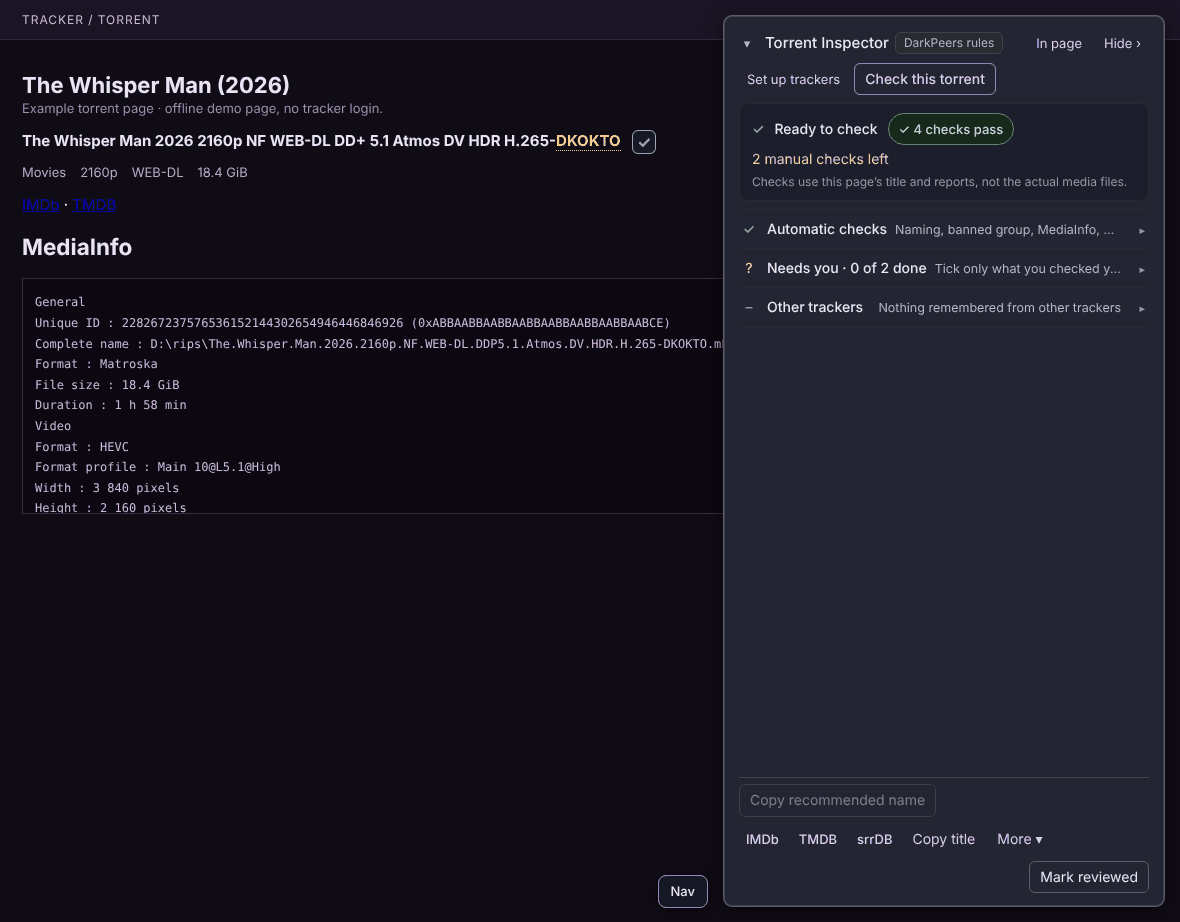
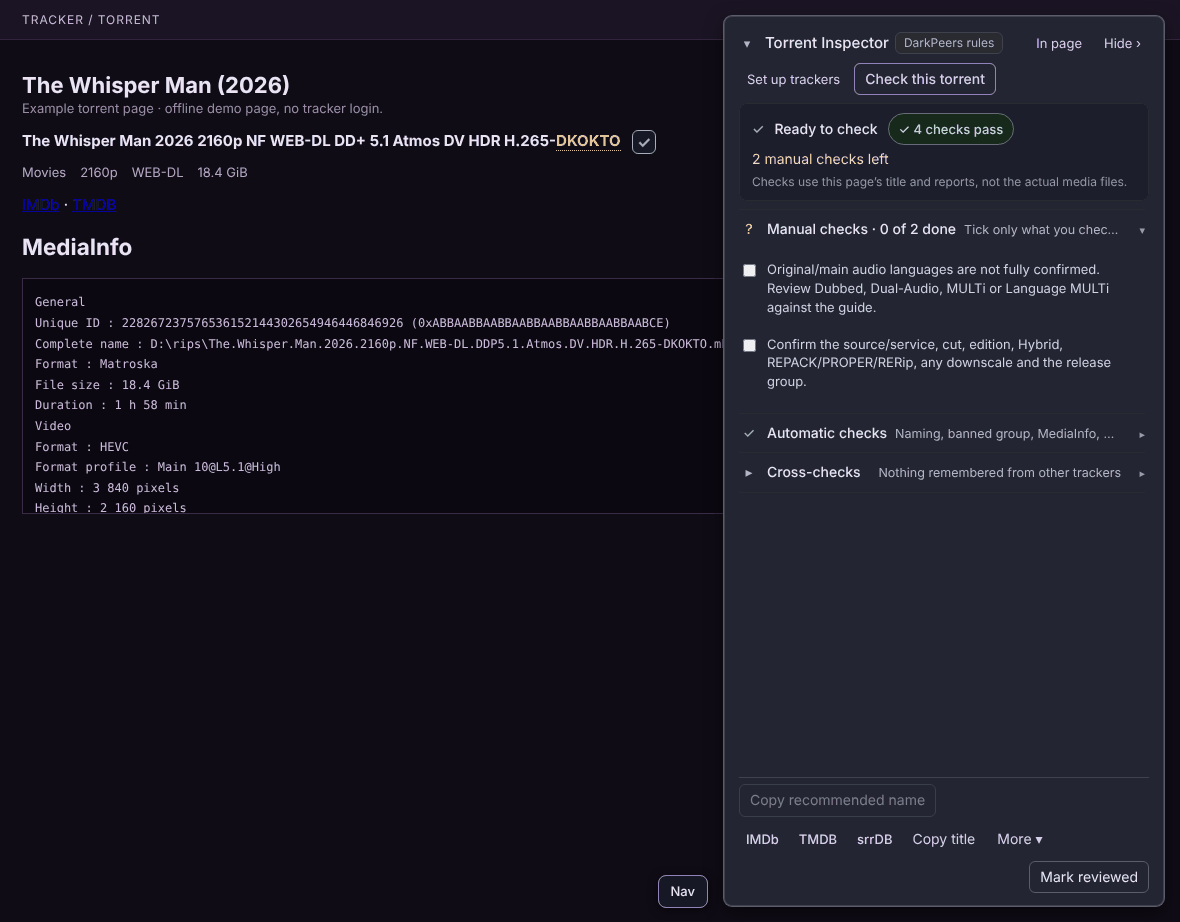
Update website for Torrent Inspector 2.3.0

Changed region(s): [[0.6102, 0.243, 0.9458, 0.4252], [0.6407, 0.4555, 0.9458, 0.5163]]

diff --git a/index.html b/index.html
@@ -4,9 +4,9 @@
 <meta charset="utf-8">
 <meta name="viewport" content="width=device-width, initial-scale=1">
 <meta name="referrer" content="no-referrer">
-<title>Torrent Inspector 2.2.0 — check, compare and copy</title>
+<title>Torrent Inspector 2.1.1 — check, compare and copy</title>
 <link rel="icon" type="image/svg+xml" href="images/logo.svg">
-<meta name="description" content="A compact review drawer with Automatic checks, Needs you and Other trackers. Saved setup, report copying and review replies stay together, with no usage telemetry.">
+<meta name="description" content="Visible page checks, one Check this torrent button and inline tracker results. Naming, reply and review tools share one interface, with saved setup and no usage telemetry.">
 <style>
   :root{
     --bg:#0f0b14; --panel:#160f1e; --panel-2:#1b1226; --line:#3b2a4a; --line-2:#553d6b;
@@ -123,9 +123,9 @@
 <nav class="site-nav" aria-label="Site navigation"><a href="/">Home</a><a href="/rules.html">Rules builder</a></nav>
 <p class="eyebrow">A simpler torrent review workflow</p>
 <h1>Check. Compare. Copy<span class="dot">.</span></h1>
-<p class="lede">Torrent Inspector 2.2.0 keeps the checks, tracker setup and matching releases
-in one drawer beside the torrent page. Read the page checks, then connect trackers when you want searches.</p>
-<ul class="pills"><li class="pill"><b>2.2.0</b></li><li class="pill">One interface</li>
+<p class="lede">Torrent Inspector 2.3.0 keeps the checks, tracker setup and matching releases
+in one box on the torrent page. Connect once, then press <b>Check this torrent</b>.</p>
+<ul class="pills"><li class="pill"><b>2.3.0</b></li><li class="pill">One interface</li>
 <li class="pill">46 UNIT3D trackers · PeerGarden support · 65 searchable trackers</li>
 <li class="pill">No posting · No usage telemetry</li></ul>
 <div class="cta"><a class="btn primary" href="#install">How to get it</a><a class="btn" href="#review">See the workflow</a><a class="btn" href="rules.html">Rules builder</a></div>
@@ -134,36 +134,37 @@ in one drawer beside the torrent page. Read the page checks, then connect tracke
 <section id="start"><div class="wrap"><h2>Three steps for everyday use</h2>
 <p class="sub">Setup is saved. You do not need to open another settings panel for each torrent.</p>
 <div class="grid">
-<div class="card lead"><h3>1 · Open a torrent</h3><p>Read the verdict line. Open <b>Automatic checks</b> for the page evidence and <b>Needs you</b> for manual checks. No API key is needed for the loaded-page checks.</p></div>
-<div class="card lead"><h3>2 · Connect once</h3><p><b>Set up trackers</b> shows Prowlarr import and a manual tracker-key form together. Use either path and save/test a connection. <b>Check this torrent</b> searches connected trackers; your setup is remembered.</p></div>
+<div class="card lead"><h3>1 · Open a torrent</h3><p>Page checks are visible immediately. Press <b>Check this torrent</b> to start an API search and show results in the same panel.</p></div>
+<div class="card lead"><h3>2 · Connect once</h3><p>On first use, <b>Set up trackers</b> offers <b>Connect Prowlarr</b> or <b>Add a tracker manually</b>. Save/test a connection, then press <b>Check this torrent</b>. Your setup is remembered.</p></div>
 <div class="card lead"><h3>3 · Copy and review</h3><p>Use the copy buttons on a result for its report or original BBCode. <b>Details</b> opens its comparison and report. Use <b>Retry</b> beside a failed tracker. Finish the manual checks, then use <b>Mark reviewed</b> to save your progress.</p></div>
 </div></div></section>
 <section id="review"><div class="wrap"><h2>One place to check and review</h2>
-<p class="sub">One verdict line, three folded groups and the same evidence when you expand them.</p>
-<p><b>Check this torrent</b> in the header starts API search and opens <b>Other trackers</b>. Results keep setup,
+<p class="sub">A full-width checks table, one main action and the tools you need below it.</p>
+<p><b>Check this torrent</b> starts API search in one click. Results keep setup,
 comparisons and copying together. <b>Search options</b> holds filters, <b>Search more broadly</b> and <b>Search all trackers</b>.
-<b>More</b> in the bottom action row holds website search tabs separately from the API action.</p>
+<b>More</b> on the page holds website search tabs separately from the API action.</p>
 <p><b>Set up trackers</b> in the header opens saved tracker controls when needed.
 Page checks and returned results stay in the same panel.
-Open <b>Automatic checks</b> for the page findings, <b>Needs you</b> for confirmations and <b>Other trackers</b> for search results. As scans arrive, your reading position, open details and focus are kept.
+Check and review buttons stay accessible. Wider screens show results in columns;
+phones stack them. As scans arrive, your reading position, open details and focus are kept.
 Each result shows its title and any reported filename. Equivalent identities share
 a card, including eligible <b>Candidates to review</b>. Grouped candidates still need review against this torrent; they do not become matches. Each tracker keeps its own date, original report and BBCode, copy buttons and <b>Open torrent</b>. Similar names alone or conflicting identity evidence do not group results; <b>Other editions</b> stay separate. <b>Details</b> opens its comparison and report; copying works without opening it.</p>
-<p><b>Copy recommended name</b> in the bottom action row copies a name reassessed against the active guide.
-Expand a group and check row for evidence or manual confirmations. A <b>Suggested title</b> card above the groups explains a correction when one is available; its <b>Review reply</b> combines selected findings into BBCode.
+<p><b>Copy recommended name</b> beside <b>Check this torrent</b> copies a name reassessed against the active guide.
+Expand any check row for evidence or manual confirmations. <b>Suggested title</b> opens below the checks when a correction is available.
 <b>Page checks passed</b> means the checked items and manual checks are clear; <b>Review needed</b> means something still needs review.
 Listing badges say <b>Title</b> to show that only the displayed name was checked. Failed tracker searches show a failure count and a retry action.
 The <b>Personal Release</b> check row shows <b>Yes</b>, <b>No</b> or <b>Unknown</b> from an explicit tracker badge or API flag, separately from <b>Internal</b>. Missing evidence stays <b>Unknown</b>; it does not identify who made the release or add requests.
 Open a row for its full evidence or title preview. <b>Suggested title</b> explains supported formatting fixes and gives you a copy
-button. <b>Review reply</b> lets you choose findings, read a BBCode preview and copy
+button. <b>Reply to uploader</b> lets you choose findings, read a BBCode preview and copy
 one message. Missing release information is never guessed. Nothing is renamed or posted automatically.</p>
 <p>InfinityHD naming follows its movie, TV and music guide, including <b>DV HDR</b> and bracketed music with an optional group tag. Metadata and official retail box-set status still need manual confirmation. Music requirements §10 add FLAC 16/24-bit report/file checks; missing evidence stays for review. Completeness, tags, provenance, untouched WEB files, analog lineage, unmodified logs and bundled-video origin remain manual. Secure CD ripping, logs, cue sheets and a 100% score are recommendations. Original Scene/P2P names are kept.</p>
-<p><b>Automatic checks</b> contains screenshot count/size details and season-pack checks, with optional expected episode numbers. <b>Other trackers</b> contains the local .torrent helper.
+<p>Optional checks stay collapsed: enter expected episode numbers or choose a local
+.torrent file. The <b>Screenshots</b> row checks image count and loaded sizes; expand it for each image's details.
 <b>Other editions</b> starts collapsed. Details and copy actions stay available in the same panel.</p>
-<p><b>Hide ›</b> slides the drawer away to an edge tab; <b>Alt+I</b> brings it back. The <b>▾</b> beside the title folds it to the verdict line. <b>In page</b> places it below the release name, and <b>As drawer</b> returns it. Below 600px it stays in the page with larger controls. The colours follow the Nocturne blue-grey palette.</p>
 <div class="shots workflow-shots">
-<figure><img src="screenshots/easy-check.png?v=2.2.0" alt="Torrent Inspector as a drawer at the side of the page, with its verdict line and the Automatic checks and Needs you groups open." loading="lazy" width="1100" height="900"><figcaption>The panel as a drawer: a verdict line, then folded groups.</figcaption></figure>
-<figure><img src="screenshots/easy-mobile.png?v=2.2.0" alt="Torrent Inspector on a narrow screen, in the page, with a sticky header and large targets." loading="lazy" width="306" height="1033"><figcaption>On a phone the panel stays in the page.</figcaption></figure>
-<figure><img src="screenshots/16-review-panel.png?v=2.2.0" alt="Review dialog with its sections stacked as expanders: Findings open, then MediaInfo, Find releases, Source check, Season check and notes." loading="lazy" width="980" height="846"><figcaption>Review keeps every section, stacked as expanders.</figcaption></figure>
+<figure><img src="screenshots/easy-check.png?v=2.3.0" alt="Torrent Inspector as a drawer at the side of the page, with its verdict line and the Manual checks and Automatic checks groups open." loading="lazy" width="1100" height="900"><figcaption>The panel as a drawer: a verdict line, then folded groups.</figcaption></figure>
+<figure><img src="screenshots/easy-mobile.png?v=2.3.0" alt="Torrent Inspector on a narrow screen, in the page, with a sticky header and large targets." loading="lazy" width="306" height="1033"><figcaption>On a phone the panel stays in the page.</figcaption></figure>
+<figure><img src="screenshots/16-review-panel.png?v=2.3.0" alt="Review dialog with its sections stacked as expanders: Findings open, then MediaInfo, Find releases, Source check, Season check and notes." loading="lazy" width="980" height="846"><figcaption>Review keeps every section, stacked as expanders.</figcaption></figure>
 </div>
 <p>On requests, <b>Search trackers</b> opens a compact box and starts the saved API search in one click, including the current tracker. Request lists use matching <b>Search trackers</b> and <b>Web links</b> buttons. One compact request-page toolbar holds search and header <b>Set up trackers</b>, with folded <b>Website searches</b>. Request results use at most two columns on wide screens and one on phones. <b>Matches request details</b> means an ID and listed requirements agree; title-only or incomplete results stay under <b>Check these releases</b>, and conflicts under <b>Other editions</b>. Open a result or copy its returned report and original BBCode directly. These are request-detail comparisons, not MediaInfo, hash or same-file matches. Searching never fills, claims or approves a request.</p>
 <p>For a queue, choose <b>Review loaded titles</b> on a listing, then open a torrent.
@@ -190,16 +191,16 @@ the tracker’s title is not changed. The review tools keep the original <b>Seas
 </div></section>
 <section id="connect"><div class="wrap"><h2>Use the trackers you already have</h2>
 <div class="grid"><div class="card"><h3>Prowlarr</h3><p>Enter the base server address (including its application prefix, without a settings-page path) and API key, then press <b>Connect</b> once. If your seedbox asks for a separate login, fill <b>Server login (optional)</b> first, using an HTTPS address. Supported direct keys are imported. Configured trackers such as TorrentLeech and FileList use search fallback automatically, without a second checklist.</p></div>
-<div class="card"><h3>Direct tracker keys</h3><p>In <b>Manual · One tracker key</b>, select the tracker, paste its API key and press <b>Save &amp; test</b>. PeerGarden supports direct searches, MediaInfo, original BBCode and available torrent hashes.</p></div>
+<div class="card"><h3>Direct tracker keys</h3><p>Choose <b>Add a tracker manually</b>, select the tracker and press <b>Save &amp; test</b>. PeerGarden supports direct searches, MediaInfo, original BBCode and available torrent hashes.</p></div>
 <div class="card"><h3>Your saved setup</h3><p><b>Test all connections</b> checks saved supported direct keys and Prowlarr discovery without changing selections. Updates retain settings and keys already saved in Tampermonkey; older page-only credentials need one-time re-entry. Blank key fields are intentional. Keys stay private and excluded from backups.</p></div></div>
 <p class="note" style="margin-top:18px">Use <b>Copy MediaInfo</b> or <b>Copy BDInfo</b> for the original report, and <b>Copy description</b> for its original BBCode. Fallback results may have no report or original description to copy. The script does not invent missing reports.</p>
 </div></section>
 <section id="shots"><div class="wrap"><h2>More detail when you need it</h2>
 <p class="sub">Expand a check or open the detailed review tools for reports, comparisons and private notes.</p>
 <div class="shots">
-<figure><img src="screenshots/17-detail-mediainfo.png?v=2.2.0" alt="Detailed MediaInfo view showing summary cards, codecs and track tables for the posted report." loading="lazy" width="980" height="846"><figcaption>Read the report with track details and naming evidence.</figcaption></figure>
-<figure><img src="screenshots/18-find-releases.png?v=2.2.0" alt="Find releases with an editable query, title modes and a grid of selected tracker searches." loading="lazy" width="980" height="1048"><figcaption>Find releases keeps the detailed search controls available.</figcaption></figure>
-<figure><img src="screenshots/19-season-check.png?v=2.2.0" alt="Season check comparing episode lists from remembered uploads and showing missing or different files." loading="lazy" width="980" height="990"><figcaption>Compare season packs episode by episode.</figcaption></figure>
+<figure><img src="screenshots/17-detail-mediainfo.png?v=2.3.0" alt="Detailed MediaInfo view showing summary cards, codecs and track tables for the posted report." loading="lazy" width="980" height="846"><figcaption>Read the report with track details and naming evidence.</figcaption></figure>
+<figure><img src="screenshots/18-find-releases.png?v=2.3.0" alt="Find releases with an editable query, title modes and a grid of selected tracker searches." loading="lazy" width="980" height="1048"><figcaption>Find releases keeps the detailed search controls available.</figcaption></figure>
+<figure><img src="screenshots/19-season-check.png?v=2.3.0" alt="Season check comparing episode lists from remembered uploads and showing missing or different files." loading="lazy" width="980" height="990"><figcaption>Compare season packs episode by episode.</figcaption></figure>
 </div><p>Detailed tools also include private notes, naming templates, captured-release comparisons
 and rules profiles. The <a href="rules.html">Rules builder</a> helps you create a profile for your tracker.</p>
 </div></section>
@@ -208,7 +209,7 @@ and rules profiles. The <a href="rules.html">Rules builder</a> helps you create 
 Ask DKOKTO on your tracker for the installation address. This public website carries the
 screenshots and Rules builder; it does not offer the userscript for download.</p>
 <ol class="steps"><li>Install Tampermonkey, then open the supplied installation link.</li>
-<li>Choose <b>Install</b> for first use or <b>Update</b> for your existing <b>Torrent Inspector</b> entry, then reload your tracker tabs.</li>
+<li>Update the existing <b>Torrent Inspector</b> entry and reload your tracker tabs.</li>
 </ol>
 <p>Settings and keys already saved in Tampermonkey are retained. Older page-only credentials need one-time re-entry.</p>
 </div></section>
@@ -216,10 +217,10 @@ screenshots and Rules builder; it does not offer the userscript for download.</p
 <dt>Does green mean the upload is approved?</dt><dd>No. It means the supported checks passed. The tool reads posted evidence, not the actual media, and never approves a torrent.</dd>
 <dt>Do I need to open every tracker?</dt><dd>Connected APIs can return evidence into the same box. Unsupported APIs and missing content may still need an explicit website visit.</dd>
 <dt>Where are my keys?</dt><dd>In Tampermonkey's private script storage. They are reused for later checks and excluded from backups. Optional server logins use the same private storage and go only to your saved Prowlarr server. Prowlarr cookies, passwords and RSS passkeys are not copied.</dd>
-<dt>Where are the detailed tools?</dt><dd>Review keeps Findings, MediaInfo, Find releases, Source check, Season check and notes as stacked expandable sections. The torrent-page drawer also offers In page placement.</dd>
+<dt>Where are the detailed tools?</dt><dd>The single panel keeps Findings, MediaInfo, Find releases, Source check, Season check and notes available. There is no mode switch.</dd>
 <dt>What does it send?</dt><dd>The API searches you request, using each destination's own key. Screenshot checks read loaded counts and dimensions. It sends no usage telemetry and never submits tracker changes. External lookup links open only when clicked.</dd>
 <dt>Does the local torrent check contact a tracker?</dt><dd>No. Choose a .torrent file up to 16 MiB and 10,000 files. Its metadata is read in this tab, never uploaded, announced or saved in settings. Hashes and byte counts cannot verify actual media files.</dd>
-<dt>What do screenshot checks compare?</dt><dd>The number of description images and their loaded sizes against the posted video. Unloaded sizes stay unknown. Open Automatic checks, then Screenshots for details. Original-image and viewer links open only when clicked.</dd>
+<dt>What do screenshot checks compare?</dt><dd>The number of description images and their loaded sizes against the posted video. Unloaded sizes stay unknown. Expand the Screenshots row for details. Original-image and viewer links open only when clicked.</dd>
 </dl></div></section>
-<footer><div class="wrap"><p><b>Torrent Inspector 2.2.0</b> · <a href="rules.html">Rules builder</a> · <a href="https://github.com/khamere/torrent_inspector" rel="noopener noreferrer">GitHub</a></p></div></footer>
+<footer><div class="wrap"><p><b>Torrent Inspector 2.3.0</b> · <a href="rules.html">Rules builder</a> · <a href="https://github.com/khamere/torrent_inspector" rel="noopener noreferrer">GitHub</a></p></div></footer>
 </body></html>

diff --git a/rules.html b/rules.html
@@ -100,7 +100,7 @@
 <header class="top">
   <div class="wrap">
     <nav class="site-nav" aria-label="Site navigation"><a href="/">Home</a><a href="/rules.html">Rules builder</a></nav>
-    <p class="eyebrow">Torrent Inspector 2.2.0</p>
+    <p class="eyebrow">Torrent Inspector 2.3.0</p>
     <h1>Tracker rules</h1>
     <p class="lede">
       Build a rules profile for a tracker, check one you already have, and run a release name
@@ -225,7 +225,7 @@
 <footer>
   <div class="wrap">
     <p><a href="index.html">← Torrent Inspector</a> · profile format documented in
-      <code>TRACKER-RULES.md</code> · built from the modules of 2.2.0</p>
+      <code>TRACKER-RULES.md</code> · built from the modules of 2.3.0</p>
   </div>
 </footer>
 
@@ -1423,13 +1423,17 @@ const DKOKTO_RULES = ((profiles) => {
 
     // What this site's rules can be checked for, from a title and (where present) the
     // MediaInfo report on the page.
-    function check(title='',{site=current(),profile='auto',file=null,officialTitle='',files,reports}={}) {
+    function check(title='',{site=current(),profile='auto',fullDisc=false,file=null,officialTitle='',files,reports}={}) {
         const issues=[],add=(severity,code,message)=>{if(!issues.some(i=>i.code===code))issues.push({severity,code,message});};
         // An added tracker is checked against the rules its profile carries.
         const added=profiles.get(site);
         if(added){
-            const checked=profiles.evaluate(added,title,profile);
+            // A page that says Full Disc is read against the profile's disc rules: a film or
+            // series category does not make a full disc an encode.
+            const category=fullDisc&&(profile==='movie'||profile==='tv')?'disc':profile;
+            const checked=profiles.evaluate(added,title,category);
             if(site==='ihd'&&profile==='music')checked.push(...infinityMusicEvidence({file,files,reports}));
+            if(site==='mns')return midnightModeration(checked,{title,profile:category,file,files});
             return checked;
         }
         if(site!=='zenith')return issues;
@@ -1478,6 +1482,16 @@ const DKOKTO_RULES = ((profiles) => {
         if(video||book||profile==='music')
             add('review','zenith-standing','Zenith rules this cannot check: whether it already exists there (rule 1), another tracker’s exclusivity (1.2), keeping the original group tag (1.4) and no archives (2.1).'+(video?' The three screenshots and the MediaInfo (3.2, 3.4) are checked on the torrent page.':''));
         return issues;
+    }
+    // MidnightScene's moderation guide (mns-moderation.js). Its group rule replaces the naming
+    // guide's softer group-tag question; the per-torrent confirmations need the torrent page.
+    function midnightModeration(checked,{title,profile,file,files}){
+        const moderation=typeof DKOKTO_MNS_MODERATION!=='undefined'?DKOKTO_MNS_MODERATION:require('./mns-moderation.js');
+        const found=moderation.evidence({title,profile,file,files})
+            .filter(issue=>file||files!==undefined||!/^mns-mod-confirm-/.test(issue.code))
+            .map(({severity,code,message})=>({severity,code,message}));
+        const grouped=found.some(issue=>issue.code==='mns-mod-group');
+        return [...checked.filter(issue=>!(grouped&&issue.code==='mns-group-tag')),...found];
     }
     // Section 10, supplied 16 Oct 2026. Positive evidence can establish a conflict;
     // missing fields, relative paths and one posted track cannot certify an album.
@@ -1608,8 +1622,9 @@ const DKOKTO_RULES = ((profiles) => {
     const baseline=()=>[...BUILTIN_BASELINE,...profiles.baseline()];
     // A profile may list the resolutions its tracker accepts; otherwise its base decides.
     const resolutions=site=>profiles.get(site)?.resolutions?.length?profiles.get(site).resolutions:null;
-    // Screenshots a rule set asks for in the description (Zenith 3.2: three source screenshots).
-    const SCREENSHOTS={zenith:3};
+    // Screenshots a rule set asks for in the description (Zenith 3.2: three source screenshots;
+    // MidnightScene's moderation guide: at least one real embedded image).
+    const SCREENSHOTS={zenith:3,mns:1};
     function screenshotsNeeded(site=current()){return SCREENSHOTS[site]||0;}
     return {screenshotsNeeded,list,labelOf,hostsOf,guideDate,guideSince,current,choose,forget,check,books,siteFor,baseOf,booksOf,musicOf,audiobooksOf,baseline,resolutions,added,hasRules,settled,BASELINE,KEY,HOSTS,
         bannedAuthors:()=>[...BANNED_AUTHORS],bannedWorks:()=>[...BANNED_WORKS],use(store){backing=store;migrated=false;}};
@@ -2315,7 +2330,7 @@ const DKOKTO_NAMING = ((inspector,services,groups,rules,source) => {
         return result(discFamily?'disc':profile);
         function result(templateKey=profile){
             // The tracker's own upload rules, on top of the shared naming guide.
-            for(const issue of rules.check(name,{profile,file,files:options.files,reports:options.musicReports,personalRelease:options.personalRelease,site:options.rules,officialTitle:options.officialTitle}))add(issue.severity,issue.code,issue.message);const errors=issues.filter(x=>x.severity==='error').length,reviews=issues.length-errors;return {profile,template:infinity&&profile==='music'?IHD_MUSIC_TEMPLATE:templates[templateKey]||'',issues,service:serviceLabel,status:errors?errors+' correction'+(errors===1?'':'s')+' needed':reviews?'No definite errors found · manual review remains':'No supported issues found'};}
+            for(const issue of rules.check(name,{profile,fullDisc:options.fullDisc===true,file,files:options.files,reports:options.musicReports,personalRelease:options.personalRelease,site:options.rules,officialTitle:options.officialTitle}))add(issue.severity,issue.code,issue.message);const errors=issues.filter(x=>x.severity==='error').length,reviews=issues.length-errors;return {profile,template:infinity&&profile==='music'?IHD_MUSIC_TEMPLATE:templates[templateKey]||'',issues,service:serviceLabel,status:errors?errors+' correction'+(errors===1?'':'s')+' needed':reviews?'No definite errors found · manual review remains':'No supported issues found'};}
     }
     function report(name,options,file){const r=check(name,options,file);
         const whose=(()=>{try{const key=options&&options.rules?options.rules:rules.current();
@@ -2732,6 +2747,9 @@ TORRENTGALAXY TSP TSPxL ViSION VXT WAF WKS x0r YAWNiX YIFY YTS PSA`.split(/\s+/)
             {code:'edition-name',severity:'error',profiles:['movie','tv'],
              forbid:'(?:^|[ .])(?:\\d+(?:th|st|nd|rd)[ .]Anniversary[ .]Edition|Anniversary[ .]Edition|4K[ .]Remaster|Remastered|Criterion[ .]Collection|Limited)(?=$|[ .-])',
              message:'The Edition is omitted from the name and put in the description. Only a disc may carry the distributor, e.g. Criterion Collection — if this is a disc, check the category first.'},
+            {code:'edition-name-disc',severity:'error',profiles:['disc'],
+             forbid:'(?:^|[ .])(?:\\d+(?:th|st|nd|rd)[ .]Anniversary[ .]Edition|Anniversary[ .]Edition|4K[ .]Remaster|Remastered|Limited)(?=$|[ .-])',
+             message:'On a disc too the Edition is omitted from the name and put in the description; only the distributor, e.g. Criterion Collection, may stay.'},
             {code:'dub-dual-audio',severity:'error',profiles:['movie','tv'],
              forbid:'(?:^|[ .])Dual[ .]Audio(?=$|[ .-])',
              message:'The Dub element is written Dual-Audio, hyphenated (the other value is Dubbed), and only for non-discs.'},
@@ -2873,7 +2891,7 @@ Sicario Silence SM737 STUTTERSHIT Tigole TSP TSPxL UTR ViSION WAF Will1869 x0r Y
             {code:'encode-source',severity:'error',profiles:['movie','tv'],
              forbid:'(?:^|[ .])(?:UHD[ .])?Blu-ray(?=$|[ .-])',
              message:'For encodes and remuxes the Source is BluRay or UHD BluRay, one word; Blu-ray with the hyphen is the full-disc spelling. If this is a full disc, check the category first.'},
-            {code:'edition-name',severity:'error',profiles:['movie','tv'],
+            {code:'edition-name',severity:'error',profiles:['movie','tv','disc'],
              forbid:'(?:^|[ .])(?:\\d+(?:th|st|nd|rd)[ .]Anniversary[ .]Edition|Anniversary[ .]Edition|4K[ .]Remaster|Remastered|Criterion(?:[ .]Collection)?|Limited)(?=$|[ .-])',
              message:'The Edition is omitted from the torrent title and put in the description.'},
             {code:'dub-dual-audio',severity:'error',profiles:['movie','tv'],
@@ -2900,6 +2918,8 @@ Sicario Silence SM737 STUTTERSHIT Tigole TSP TSPxL UTR ViSION WAF Will1869 x0r Y
              message:'Live or (LIVE) is only in the title when it is printed on the cover; otherwise the official title, or the date and venue where there is none.'}
         ],
         notes:[
+            {code:'moderation-doubt',profiles:['movie','tv','disc'],
+             message:'From the Torrent Moderation Guide: when in doubt, postpone with a clear message rather than approving something you are not sure about. Escalate to full mods if needed.'},
             {code:'naming-details',profiles:['movie','tv','disc'],
              message:'What the naming guide states that a title alone cannot settle: the Title is TMDB’s name; Geographics (AU, UK, US) only to tell apart content of the same name and year; a TV year only where two series share a name or TVDB carries it; the Language only when there is no English audio, ALL UPPER CASE (a pattern cannot tell case, so that is not checked); Cut assumed Theatrical; Hybrid only where the main stream comes from more than one source; Region only on a full disc; the Service abbreviation on web content; Channels of the default track.'},
             {code:'music-details',profiles:['music'],

diff --git a/README.md b/README.md
@@ -1,13 +1,9 @@
-# Torrent Inspector 2.2.0
+# Torrent Inspector 2.1.1
 
-On desktop, Torrent Inspector opens as a drawer at the right edge of the page.
-A verdict line leads into three folded groups: **Automatic checks**, **Needs you**
-and **Other trackers**. Open a group for its evidence or manual checks.
-**Check this torrent** in the header searches your connected trackers.
-
-**Set up trackers** opens one screen with Prowlarr import and manual tracker-key
-forms visible together. Use either path, save/test a connection, then check.
-Your setup is saved for later torrents.
+Read the visible page checks, then press **Check this torrent** to search your
+connected trackers. Findings, setup, results and review tools share one interface.
+On first use, **Set up trackers** offers **Connect Prowlarr** or **Add a tracker
+manually**. Save/test a connection, then check. Your setup is saved.
 
 Results show report/BBCode copy buttons directly; **Details** opens comparison
 and report evidence. **Retry** repeats a failed tracker. **Search options** holds
@@ -21,16 +17,15 @@ alone or conflicting identity evidence do not group results.
 confirmations; they never approve an upload. The **Personal Release** check row
 is separate from **Internal**. Expand any check row for its evidence and manual confirmations.
 
-**Copy recommended name** is in the bottom action row. It copies a name reassessed
-against the active guide. A **Suggested title** card above the groups explains
-corrections; **Review reply** in that card combines selected findings into BBCode.
-**Season-pack checks** under **Automatic checks** runs when
+**Copy recommended name** beside **Check this torrent** copies a name reassessed
+against the active guide. Supported corrections retain the expandable **Suggested title** preview. **Reply to uploader**
+combines selected findings into a BBCode preview. **Season-pack checks** runs when
 the local file list appears and flags **Missing episode numbers**, before
 the main check. Your optional expected count/list takes precedence for partial
 packs and can check leading or trailing absences. No official length is guessed.
-**Check a local .torrent file** under **Other trackers** reads chosen metadata
-locally. **Screenshots** under **Automatic checks** checks image count and loaded
-sizes. Expand it for each image's details.
+**Check a local .torrent file** reads chosen metadata locally. The **Screenshots**
+row checks image count and loaded sizes. Expand it for each image's details.
+Optional season and local-file tools stay collapsed until needed.
 
 On requests, **Search trackers** opens the compact results box and starts the saved
 API search in one click. Request lists have matching **Search trackers** and **Web
@@ -51,11 +46,10 @@ stays for review. Completeness, tags, provenance, untouched WEB files, analog
 lineage, log integrity and bundled videos remain manual. Secure CD ripping, logs,
 cue sheets and a 100% score are recommendations. Original Scene/P2P names are kept.
 
-**Hide ›** slides the drawer away to an edge tab; **Alt+I** brings it back.
-The **▾** beside the title folds it to the verdict line. **In page** moves it below
-the release name; **As drawer** returns it. Below 600px the panel stays in the page
-with larger controls. Search results stay under **Other trackers**; **Other editions**
-starts collapsed. The Nocturne palette gives the panel its blue-grey colours.
+Page checks use a full-width table, with expandable evidence and manual checks.
+The header **Set up trackers** button opens saved connections in the same panel.
+Search results stay below the checks; **Other editions** starts collapsed. Local
+.torrent, suggested-title and review-reply tools open when needed.
 
 Full Blu-ray BDInfo can show **Matching disc report** when its disc label, exact
 disc bytes, playlist, duration and tracks agree. Incomplete reports stay for review.
